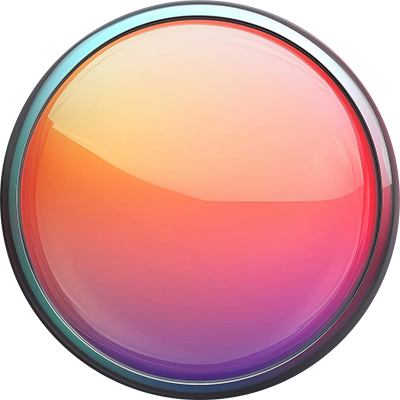
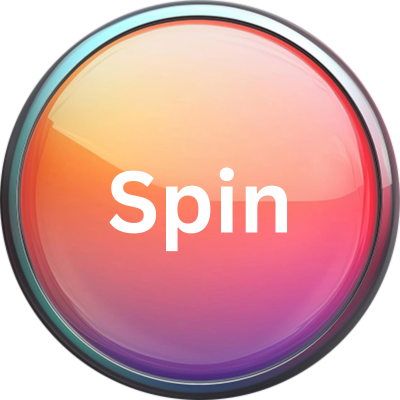
all components added

diff --git a/packages/frontend/index.html b/packages/frontend/index.html
@@ -12,64 +12,112 @@
   </head>
 
   <body>
-    <div class="container fixed-top">
-      <div class="row mt-3">
-        <div class="col-md-6 col-sm-12">
-          <svg width="250" height="44" viewBox="0 0 250 44" fill="none" xmlns="http://www.w3.org/2000/svg">
-          <path d="M245.379 11.968C242.29 9.23661 237.919 7.79643 233.548 7.10117C219.386 4.91606 205.049 9.78288 190.713 9.73324C179.523 9.68361 168.799 6.35624 157.725 5.80997C146.711 5.26369 136.337 9.68361 125.322 9.58424C116.114 9.48488 107.08 6.20726 97.8718 6.95218C90.2955 7.59778 83.7682 10.3292 76.0169 8.83932C72.287 8.0944 68.6154 7.00184 64.8271 6.65421C56.6679 5.90929 48.8584 8.69033 40.874 9.43524C32.8896 10.1802 24.7304 9.78288 16.9791 7.94541C13.3075 7.05151 9.22782 6.50523 5.78933 7.99508C5.20653 8.24338 4.62373 8.59101 4.0992 8.93864C0.835515 11.4217 -0.446649 21.4037 0.136153 24.9793C0.369274 26.3699 1.4766 31.7333 4.3906 30.0944C5.55621 29.4489 6.13901 28.2073 6.37213 27.0652C6.78009 25.476 7.24633 21.4037 9.51927 21.4037C12.4915 21.4533 14.4731 24.9297 17.6202 24.3337C20.3011 23.8372 23.1568 22.7942 25.9543 23.6384C29.6842 24.8303 30.675 28.5053 33.3558 30.6407C36.9692 33.4714 41.3985 20.5098 46.1775 24.6317C47.9259 26.1215 47.6345 28.3066 47.5762 30.2434C47.5179 31.932 47.751 35.1102 50.3736 35.4579C51.1895 35.5572 52.0637 35.2592 52.53 34.713C55.444 31.485 51.3061 26.9658 54.3367 23.8372C57.4255 20.6092 63.4867 22.7942 67.3332 23.4895C70.3055 24.0358 72.5784 23.7378 75.5507 23.7378C76.9494 23.7378 77.4739 24.4827 77.4156 25.6249C77.2991 28.3563 75.7255 31.9816 77.6487 34.5143C78.1733 35.2592 79.1057 35.7559 80.1548 35.5572C81.2038 35.4082 81.9032 34.6137 82.1946 33.8191C82.7775 31.8822 81.9032 29.6475 81.8449 27.6611C81.7866 25.476 81.4953 22.1982 85.2252 22.6452C87.265 22.8935 89.13 23.7378 91.1118 24.2344C95.0164 25.2276 99.4455 22.6452 103.584 21.5527C105.798 20.9567 108.071 22.2976 108.187 24.2841C108.305 26.3699 108.187 29.2502 107.546 33.2232C105.915 43.0562 114.482 42.5595 113.725 37.941C113.258 35.0606 113.375 29.7965 113.549 26.3202C113.725 26.6678 113.957 27.0154 114.132 27.3631C116.755 31.336 121.65 29.6475 123.982 26.4692C125.846 23.9861 126.837 20.8078 130.917 21.2051C135.871 21.652 140.475 23.5888 145.428 23.7874C150.033 23.9861 154.054 22.0493 158.542 21.503C162.738 20.9567 167.167 21.3541 171.188 22.6452C174.918 23.8372 178.532 26.0719 182.728 25.6746C183.835 25.5752 185.467 24.6813 186.516 25.4262C187.624 26.2705 186.807 28.406 186.575 29.3992C186.341 30.6407 186.341 31.9816 186.691 33.2232C186.865 33.8687 187.157 34.564 187.682 35.0606C188.206 35.5572 189.139 35.8055 189.838 35.5572C190.713 35.2592 191.062 34.3653 191.236 33.5212C191.761 30.5911 191.645 28.704 191.645 25.7242C191.645 25.0786 191.703 24.3834 192.285 23.9364C192.752 23.5888 193.51 23.5392 194.151 23.5888C197.415 23.6882 199.745 23.4895 202.718 24.6317C204.058 25.178 204.991 26.2705 204.991 27.5617C205.049 29.4985 204.875 32.0809 204.35 35.4579C202.776 45.0426 211.11 44.546 210.353 40.0764C209.945 37.5933 210.003 33.2728 210.12 29.9455C210.178 28.6046 211.518 27.5617 213.092 27.6611H213.15C217.055 27.9093 220.902 22.2976 224.806 22.9929C228.769 23.6882 232.907 28.3066 236.171 26.2705C237.336 25.5752 238.094 24.3834 239.376 23.8372C240.542 23.2908 241.299 23.8868 241.649 24.88C242.815 28.257 243.747 31.783 243.922 35.309C243.922 35.6565 244.039 36.0539 244.33 36.3518C245.554 37.5933 247.535 35.9545 248.176 34.4647C250.857 27.8101 251.091 17.0832 245.379 11.968Z" fill="white"/>
-          <path d="M52.6456 29.8952C52.1211 30.4414 51.3051 30.7394 50.4892 30.6401C47.8666 30.2924 47.6335 27.1638 47.6918 25.4256C47.75 23.4889 48.0415 21.3037 46.293 19.8139C41.514 15.6423 37.0848 28.6536 33.4714 25.823C30.7322 23.6875 29.7415 20.0125 26.0699 18.8206C23.3307 17.9268 20.475 18.9696 17.7358 19.5159C14.5887 20.1119 12.6071 16.6355 9.63487 16.5859C7.36191 16.5363 6.83739 20.6582 6.48771 22.2473C6.19631 23.3399 5.67179 24.6311 4.50619 25.2767C1.65046 26.8658 0.484857 21.6513 0.251736 20.2112C0.0768953 22.148 0.0768953 23.8862 0.251736 25.0283C0.484857 26.4189 1.59218 31.7823 4.50619 30.1435C5.67179 29.4979 6.25459 28.2563 6.48771 27.1142C6.89568 25.525 7.36191 21.4527 9.63487 21.4527C12.6071 21.5023 14.5887 24.9787 17.7358 24.3827C20.4167 23.8862 23.2724 22.8433 26.0699 23.6875C29.7998 24.8793 30.7905 28.5543 33.4714 30.6898C37.0848 33.5204 41.514 20.5588 46.293 24.6807C48.0415 26.1705 47.75 28.3557 47.6918 30.2924C47.6335 31.981 47.8666 35.1593 50.4892 35.507C51.3051 35.6063 52.1793 35.3083 52.6456 34.762C54.2774 32.9742 53.6946 30.7891 53.4032 28.7033C53.2284 29.1006 52.9952 29.4979 52.6456 29.8952Z" fill="#D9F1FF"/>
-          <path d="M108.245 19.4661C108.129 17.4796 105.855 16.1387 103.641 16.7347C99.5026 17.8272 95.0735 20.4096 91.1689 19.4163C89.1874 18.9198 87.3225 18.0755 85.2827 17.8272C81.5527 17.3306 81.8441 20.6579 81.9024 22.8431C81.9024 23.3893 81.9607 23.9852 82.0773 24.5315C82.4269 23.29 83.2428 22.3961 85.2827 22.6941C87.3225 22.9423 89.1874 23.7866 91.1689 24.2832C95.0735 25.2764 99.5026 22.6941 103.641 21.6015C105.681 21.0552 107.779 22.1478 108.187 23.8362C108.303 22.0981 108.303 20.6579 108.245 19.4661Z" fill="#D9F1FF"/>
-          <path d="M113.49 34.9619C112.383 36.9483 108.653 36.849 107.662 32.9258C107.662 33.0251 107.604 33.1244 107.604 33.2237C105.972 43.0567 114.539 42.5601 113.782 37.9416C113.606 37.147 113.548 36.1041 113.49 34.9619Z" fill="#D9F1FF"/>
-          <path d="M77.4731 20.7581C77.5314 19.6158 77.0069 18.8709 75.6082 18.8709C72.6942 18.8709 70.363 19.1689 67.3906 18.6226C63.5442 17.9274 57.4247 15.7423 54.3942 18.9703C52.7041 20.7581 53.2286 22.9432 53.52 25.1283C53.6948 24.6813 53.9862 24.2344 54.3942 23.8371C57.483 20.6091 63.5442 22.7942 67.3906 23.4895C70.363 24.0357 72.6359 23.7377 75.6082 23.7377C76.2492 23.7377 76.7155 23.8867 77.0069 24.135C77.1817 22.9928 77.4731 21.8009 77.4731 20.7581Z" fill="#D9F1FF"/>
-          <path d="M80.212 30.7395C79.163 30.8885 78.2306 30.3919 77.706 29.6966C77.4147 29.349 77.2398 28.9517 77.1232 28.5544C76.7736 30.6403 76.4821 32.875 77.706 34.5634C78.2306 35.3084 79.163 35.805 80.212 35.6064C81.2611 35.4574 81.9605 34.6628 82.2519 33.8683C82.6599 32.4777 82.3101 30.8885 82.077 29.3987C81.7274 30.0443 81.0863 30.5905 80.212 30.7395Z" fill="#D9F1FF"/>
-          <path d="M210.061 37.0472C208.954 38.984 205.398 38.8847 204.407 35.0608C204.407 35.2097 204.349 35.3091 204.349 35.4581C202.775 45.0427 211.11 44.5461 210.352 40.0765C210.177 39.2323 210.119 38.1894 210.061 37.0472Z" fill="#D9F1FF"/>
-          <path d="M248.059 29.5481C247.417 30.9883 245.436 32.6768 244.213 31.4352C243.921 31.1372 243.804 30.7897 243.804 30.3923C243.688 26.8664 242.697 23.3404 241.532 19.9634C241.182 18.9702 240.424 18.4239 239.258 18.9205C237.976 19.5165 237.219 20.6587 236.053 21.3539C232.789 23.3404 228.652 18.7219 224.688 18.0763C220.784 17.381 216.995 22.9928 213.033 22.7445H212.974C211.401 22.6451 210.06 23.688 210.002 25.0289C209.944 27.065 209.885 29.4488 209.944 31.5842C209.944 30.9883 210.002 30.442 210.002 29.8958C210.06 28.5549 211.401 27.5119 212.974 27.6113H213.033C216.937 27.8596 220.784 22.2479 224.688 22.9431C228.652 23.6384 232.789 28.2569 236.053 26.2208C237.219 25.5255 237.976 24.3337 239.258 23.7873C240.424 23.241 241.182 23.837 241.532 24.8302C242.697 28.2072 243.629 31.7332 243.804 35.2591C243.804 35.6068 243.921 36.0041 244.213 36.302C245.436 37.5436 247.417 35.9048 248.059 34.4149C249.515 30.9386 250.274 26.3698 249.865 22.0492C249.633 24.7806 248.991 27.4127 248.059 29.5481Z" fill="#D9F1FF"/>
-          <path d="M204.99 22.6954C204.932 21.4041 204.058 20.262 202.717 19.7653C199.746 18.6231 197.414 18.8218 194.15 18.7224C193.509 18.7224 192.81 18.7224 192.286 19.07C191.703 19.4674 191.645 20.2123 191.645 20.8579C191.645 23.788 191.761 25.7247 191.237 28.6548C191.12 29.4493 190.77 30.3432 189.837 30.6909C189.08 30.9392 188.206 30.6909 187.681 30.1942C187.215 29.7473 186.924 29.201 186.749 28.6051C186.69 28.903 186.574 29.201 186.574 29.3997C186.341 30.6412 186.341 31.982 186.69 33.2236C186.866 33.8692 187.157 34.5645 187.681 35.0611C188.206 35.5577 189.138 35.806 189.837 35.5577C190.712 35.2598 191.062 34.3659 191.237 33.5216C191.761 30.5916 191.645 28.7044 191.645 25.7247C191.645 25.0791 191.703 24.3839 192.286 23.937C192.752 23.5893 193.509 23.5396 194.15 23.5893C197.414 23.6886 199.746 23.49 202.717 24.6321C203.767 25.0295 204.525 25.824 204.874 26.7676C204.99 25.1784 204.99 23.8376 204.99 22.6954Z" fill="#D9F1FF"/>
-          <path d="M186.574 24.5327C186.748 23.5395 187.565 21.404 186.516 20.5597C185.467 19.7652 183.835 20.6591 182.727 20.8081C178.589 21.2054 174.918 19.0203 171.188 17.7787C167.225 16.4876 162.796 16.1399 158.541 16.6365C154.054 17.1828 150.032 19.1196 145.428 18.9209C140.475 18.7223 135.812 16.7855 130.917 16.3386C126.837 15.9413 125.846 19.1196 123.981 21.6027C121.65 24.781 116.755 26.4695 114.132 22.4966C113.898 22.1489 113.724 21.8013 113.549 21.4537C113.432 23.7381 113.374 26.7178 113.432 29.3498C113.432 28.2573 113.491 27.2144 113.549 26.3205C113.724 26.6681 113.957 27.0157 114.132 27.3634C116.755 31.3363 121.65 29.6478 123.981 26.4695C125.846 23.9864 126.837 20.8081 130.917 21.2054C135.87 21.6523 140.475 23.5891 145.428 23.7877C150.032 23.9864 154.054 22.0497 158.541 21.5034C162.737 20.9571 167.167 21.3544 171.188 22.6456C174.918 23.8375 178.531 26.0722 182.727 25.6749C183.835 25.5756 185.467 24.6817 186.457 25.4266C186.457 25.1287 186.516 24.8307 186.574 24.5327Z" fill="#D9F1FF"/>
-          <path d="M82.2527 32.1316C82.0196 32.9758 81.262 33.7208 80.213 33.8698C79.1639 34.0188 78.2314 33.5221 77.7069 32.8268C77.1823 32.1316 76.9492 31.2874 76.8327 30.4431C76.7161 31.9329 76.8327 33.3731 77.7069 34.5154C78.2314 35.2603 79.1639 35.7569 80.213 35.5583C81.262 35.4093 81.9613 34.6147 82.2527 33.8201C82.4859 33.0255 82.4859 32.2309 82.4276 31.3867C82.3692 31.635 82.311 31.8833 82.2527 32.1316Z" fill="#B4DCFF"/>
-          <path d="M108.246 25.0299C108.246 24.1359 108.246 23.2917 108.188 22.5964C108.071 20.6099 105.798 19.2691 103.583 19.865C99.4457 20.9576 95.0157 23.54 91.1111 22.5468C89.1297 22.0501 87.2648 21.2059 85.225 20.9576C81.6116 20.4609 81.7864 23.6393 81.8447 25.8244C81.9612 24.0366 82.4858 22.3481 85.225 22.6958C87.2648 22.944 89.1297 23.7883 91.1111 24.2849C95.0157 25.2781 99.4457 22.6958 103.583 21.6032C105.798 21.0072 108.071 22.3481 108.188 24.3346C108.246 24.5332 108.246 24.7816 108.246 25.0299Z" fill="#B4DCFF"/>
-          <path d="M77.4149 24.8308C77.4731 24.5329 77.4731 24.1852 77.4731 23.8872C77.5314 22.7451 77.0069 22.0001 75.6082 22.0001C72.6942 22.0001 70.3629 22.2981 67.3907 21.7518C63.5442 21.0565 57.4248 18.8714 54.3942 22.0994C53.2286 23.2913 53.112 24.7315 53.2868 26.2213C53.4035 25.3771 53.6948 24.5825 54.3942 23.8376C57.483 20.6096 63.5442 22.7947 67.3907 23.49C70.3629 24.0362 72.6359 23.7382 75.6082 23.7382C76.7155 23.7382 77.24 24.1355 77.4149 24.8308Z" fill="#B4DCFF"/>
-          <path d="M52.6462 33.0251C52.1217 33.5714 51.3057 33.8693 50.4898 33.77C48.3917 33.5217 47.8089 31.3862 47.6924 29.6978C47.6924 29.8964 47.6924 30.095 47.6924 30.2937C47.6341 31.9822 47.8672 35.1605 50.4898 35.5081C51.3057 35.6075 52.18 35.3095 52.6462 34.7632C53.7536 33.5714 53.8118 32.1808 53.6953 30.7407C53.5787 31.5352 53.2873 32.3298 52.6462 33.0251Z" fill="#B4DCFF"/>
-          <path d="M46.2349 22.9443C41.456 18.7726 37.0266 31.784 33.4133 28.9533C30.6742 26.8178 29.6834 23.1429 26.0117 21.951C23.2725 21.0571 20.4168 22.1 17.6776 22.6463C14.5306 23.2422 12.549 19.7659 9.57673 19.7163C7.3038 19.6665 6.77928 23.7884 6.4296 25.3776C6.1382 26.4702 5.61368 27.7614 4.44808 28.407C1.53407 30.0458 0.426743 24.6824 0.193623 23.2919C0.135343 22.9443 0.0770628 22.4973 0.0770628 22.0504C0.0187826 23.2422 0.0770628 24.2851 0.193623 25.03C0.426743 26.4205 1.53407 31.784 4.44808 30.1452C5.61368 29.4995 6.19648 28.258 6.4296 27.1158C6.83756 25.5266 7.3038 21.4544 9.57673 21.4544C12.549 21.5041 14.5306 24.9804 17.6776 24.3844C20.3585 23.8878 23.2143 22.8449 26.0117 23.6892C29.7416 24.881 30.7325 28.556 33.4133 30.6914C37.0266 33.5222 41.456 20.5604 46.2349 24.6824C47.284 25.5763 47.5754 26.7185 47.6919 27.9104C47.7502 26.1225 47.7502 24.2851 46.2349 22.9443Z" fill="#B4DCFF"/>
-          <path d="M186.924 26.1223C187.098 25.2284 187.156 24.2351 186.457 23.7385C185.408 22.9439 183.776 23.8378 182.669 23.9868C178.531 24.3841 174.859 22.199 171.13 20.9575C167.166 19.6663 162.737 19.3186 158.483 19.8153C153.996 20.3615 149.974 22.2983 145.37 22.0996C140.416 21.901 135.754 19.9642 130.858 19.5173C126.778 19.12 125.787 22.2983 123.923 24.7814C121.592 27.9597 116.696 29.6482 114.074 25.6753C113.84 25.3276 113.666 24.98 113.491 24.6324C113.432 26.5195 113.316 28.8536 113.374 31.1381C113.374 29.4495 113.432 27.7611 113.491 26.3705C113.666 26.7182 113.898 27.0658 114.074 27.4135C116.696 31.3864 121.592 29.6979 123.923 26.5195C125.787 24.0365 126.778 20.8581 130.858 21.2555C135.812 21.7024 140.416 23.6392 145.37 23.8378C149.974 24.0365 153.996 22.0996 158.483 21.5534C162.679 21.0071 167.108 21.4044 171.13 22.6956C174.859 23.8875 178.473 26.1223 182.669 25.7249C183.776 25.6256 185.408 24.7317 186.457 25.4766C186.69 25.6256 186.866 25.8243 186.924 26.1223Z" fill="#B4DCFF"/>
-          <path d="M210.294 39.6301C209.536 42.3118 204.641 42.3118 204.175 36.8491C203.592 44.8942 211.052 44.2487 210.352 40.0274C210.294 39.9281 210.294 39.7791 210.294 39.6301Z" fill="#B4DCFF"/>
-          <path d="M248.059 32.6773C247.418 34.1175 245.436 35.8059 244.213 34.5645C243.921 34.2665 243.804 33.9188 243.804 33.5215C243.688 29.9955 242.697 26.4695 241.532 23.0926C241.182 22.0994 240.424 21.5531 239.259 22.0497C237.976 22.6456 237.219 23.7878 236.054 24.4831C232.79 26.4695 228.652 21.8511 224.689 21.2055C220.784 20.5102 216.996 26.1219 213.033 25.8736H212.974C211.401 25.7744 210.061 26.8172 210.003 28.1581C209.944 29.7473 209.885 31.5351 209.944 33.2732C209.944 32.0814 210.003 30.9391 210.003 29.8963C210.061 28.5554 211.401 27.5125 212.974 27.6118H213.033C216.937 27.8601 220.784 22.2484 224.689 22.9436C228.652 23.6389 232.79 28.2574 236.054 26.2213C237.219 25.526 237.976 24.3341 239.259 23.7878C240.424 23.2415 241.182 23.8375 241.532 24.8307C242.697 28.2077 243.63 31.7337 243.804 35.2596C243.804 35.6073 243.921 36.0046 244.213 36.3025C245.436 37.5441 247.418 35.9053 248.059 34.4155C249.342 31.3861 250.099 27.4628 249.983 23.5892C249.866 26.8669 249.166 30.0949 248.059 32.6773Z" fill="#B4DCFF"/>
-          <path d="M204.99 25.8744C204.932 24.5831 204.058 23.4409 202.717 22.9443C199.745 21.8021 197.414 22.0007 194.15 21.9014C193.509 21.9014 192.81 21.9014 192.285 22.249C191.703 22.6464 191.645 23.3913 191.645 24.0368C191.645 24.5335 191.645 24.9805 191.645 25.3777C191.703 24.8315 191.819 24.3348 192.285 23.9872C192.752 23.6395 193.509 23.5899 194.15 23.6395C197.414 23.7389 199.745 23.5403 202.717 24.6825C204.058 25.1791 204.932 26.3213 204.99 27.5628C204.99 26.9172 204.99 26.3709 204.99 25.8744Z" fill="#B4DCFF"/>
-          <path d="M191.236 31.7842C191.119 32.5788 190.769 33.4727 189.837 33.8203C189.079 34.0687 188.206 33.8203 187.681 33.3237C187.157 32.8272 186.865 32.1815 186.69 31.4862C186.574 31.0393 186.516 30.5923 186.457 30.1454C186.34 31.1883 186.398 32.1815 186.69 33.2244C186.865 33.8701 187.157 34.5652 187.681 35.0619C188.206 35.5585 189.137 35.8068 189.837 35.5585C190.711 35.2605 191.061 34.3666 191.236 33.5224C191.644 31.1883 191.644 29.4998 191.644 27.4141C191.586 28.7549 191.527 30.1454 191.236 31.7842Z" fill="#B4DCFF"/>
-          <path d="M113.724 37.5932C112.967 40.3743 107.896 40.3743 107.429 34.7625C106.847 43.0063 114.481 42.3607 113.782 37.9904C113.724 37.8415 113.724 37.6925 113.724 37.5932Z" fill="#B4DCFF"/>
-          <path d="M234.189 10.0819C234.131 11.0255 231.392 11.6711 228.07 11.5718C224.748 11.4724 222.067 10.6282 222.067 9.73431C222.126 8.79072 224.865 8.14512 228.186 8.24444C231.567 8.34376 234.189 9.18804 234.189 10.0819Z" fill="#D9F1FF"/>
-          <path d="M163.321 8.93935C163.263 9.88293 160.523 10.5285 157.201 10.4292C153.879 10.3298 151.198 9.48566 151.198 8.59172C151.256 7.64815 153.996 7.00255 157.317 7.10186C160.698 7.20119 163.379 8.04544 163.321 8.93935Z" fill="#D9F1FF"/>
-          <path d="M67.4489 9.48517C67.3906 10.2301 65.2342 10.7764 62.5533 10.6771C59.8725 10.5777 57.7744 9.93208 57.7744 9.18717C57.8327 8.44227 59.989 7.896 62.6699 7.99531C65.3508 8.09464 67.4489 8.74024 67.4489 9.48517Z" fill="#D9F1FF"/>
-          <path d="M56.6101 9.28619C56.7267 9.83246 55.2697 10.5277 53.4047 10.8256C51.4815 11.1733 49.8497 11.0243 49.7331 10.478C49.6165 9.93173 51.0736 9.23646 52.9385 8.93852C54.8035 8.64056 56.4353 8.78954 56.6101 9.28619Z" fill="#D9F1FF"/>
-          <path d="M12.0833 8.74045C12.1999 9.28671 10.7428 9.98199 8.8779 10.28C6.95465 10.6276 5.32281 10.4786 5.20624 9.93235C5.08969 9.38608 6.54669 8.69079 8.41165 8.39281C10.3349 8.04519 11.9667 8.19417 12.0833 8.74045Z" fill="#D9F1FF"/>
-          <path d="M149.566 8.89013C149.683 9.58536 147.818 10.38 145.37 10.7276C142.923 11.0753 140.825 10.7773 140.707 10.1316C140.591 9.43636 142.456 8.64182 144.904 8.29419C147.352 7.94655 149.45 8.19486 149.566 8.89013Z" fill="#D9F1FF"/>
-          <path fill-rule="evenodd" clip-rule="evenodd" d="M27.178 18.5737C27.178 19.2689 26.4786 19.8649 25.6627 19.8649C24.8468 19.8649 24.1475 19.2689 24.1475 18.5737C24.1475 17.8785 24.8468 17.2825 25.6627 17.2825C26.4786 17.2825 27.178 17.8287 27.178 18.5737Z" fill="white"/>
-          <path fill-rule="evenodd" clip-rule="evenodd" d="M167.167 1.29144C167.167 1.98671 166.467 2.58264 165.652 2.58264C164.835 2.58264 164.136 1.98671 164.136 1.29144C164.136 0.596182 164.835 0.000244141 165.652 0.000244141C166.525 0.000244141 167.167 0.596182 167.167 1.29144Z" fill="white"/>
-          <path fill-rule="evenodd" clip-rule="evenodd" d="M246.312 24.5824C246.312 25.2777 245.612 25.8737 244.796 25.8737C243.98 25.8737 243.281 25.2777 243.281 24.5824C243.281 23.8872 243.98 23.2913 244.796 23.2913C245.612 23.2913 246.312 23.8872 246.312 24.5824Z" fill="white"/>
-          <path fill-rule="evenodd" clip-rule="evenodd" d="M203.009 26.5199C203.009 27.2152 202.309 27.8111 201.493 27.8111C200.677 27.8111 199.978 27.2152 199.978 26.5199C199.978 25.8247 200.677 25.2288 201.493 25.2288C202.309 25.2784 203.009 25.8247 203.009 26.5199Z" fill="white"/>
-          <path fill-rule="evenodd" clip-rule="evenodd" d="M135.462 21.9998C135.462 22.695 134.763 23.291 133.947 23.291C133.131 23.291 132.432 22.695 132.432 21.9998C132.432 21.3045 133.131 20.7085 133.947 20.7085C134.821 20.7085 135.462 21.3045 135.462 21.9998Z" fill="white"/>
-          <path fill-rule="evenodd" clip-rule="evenodd" d="M168.915 38.8361C168.915 39.1837 168.565 39.4816 168.158 39.4816C167.75 39.4816 167.4 39.1837 167.4 38.8361C167.4 38.4884 167.75 38.1904 168.158 38.1904C168.565 38.1904 168.915 38.4884 168.915 38.8361Z" fill="white"/>
-          <path fill-rule="evenodd" clip-rule="evenodd" d="M96.8807 27.1656C96.8807 27.5132 96.5307 27.8112 96.1225 27.8112C95.7152 27.8112 95.3652 27.5132 95.3652 27.1656C95.3652 26.8179 95.7152 26.52 96.1225 26.52C96.5889 26.52 96.8807 26.8179 96.8807 27.1656Z" fill="white"/>
-          <path fill-rule="evenodd" clip-rule="evenodd" d="M117.804 8.64072C117.804 8.98835 117.454 9.28633 117.046 9.28633C116.638 9.28633 116.288 8.98835 116.288 8.64072C116.288 8.29309 116.638 7.99512 117.046 7.99512C117.454 7.99512 117.804 8.29309 117.804 8.64072Z" fill="white"/>
-          <path fill-rule="evenodd" clip-rule="evenodd" d="M83.4762 12.9623C83.4762 13.3099 83.1266 13.6078 82.7186 13.6078C82.3107 13.6078 81.9609 13.3099 81.9609 12.9623C81.9609 12.6147 82.3107 12.3167 82.7186 12.3167C83.1266 12.3167 83.4762 12.6147 83.4762 12.9623Z" fill="white"/>
-          <path fill-rule="evenodd" clip-rule="evenodd" d="M57.8331 9.28691C57.8331 9.63455 57.4835 9.93255 57.0755 9.93255C56.6676 9.93255 56.3179 9.63455 56.3179 9.28691C56.3179 8.93932 56.6676 8.64136 57.0755 8.64136C57.4835 8.64136 57.8331 8.93932 57.8331 9.28691Z" fill="white"/>
-          <path fill-rule="evenodd" clip-rule="evenodd" d="M65.1769 27.8107C65.1769 28.1583 64.8273 28.4562 64.4193 28.4562C64.0113 28.4562 63.6616 28.1583 63.6616 27.8107C63.6616 27.463 64.0113 27.165 64.4193 27.165C64.8273 27.165 65.1769 27.463 65.1769 27.8107Z" fill="white"/>
-          <path fill-rule="evenodd" clip-rule="evenodd" d="M176.55 16.6365C176.55 16.9841 176.201 17.2821 175.793 17.2821C175.385 17.2821 175.035 16.9841 175.035 16.6365C175.035 16.2889 175.385 15.991 175.793 15.991C176.201 15.991 176.55 16.2889 176.55 16.6365Z" fill="white"/>
-          <path fill-rule="evenodd" clip-rule="evenodd" d="M220.843 9.28691C220.843 9.63455 220.493 9.93255 220.084 9.93255C219.677 9.93255 219.327 9.63455 219.327 9.28691C219.327 8.93932 219.677 8.64136 220.084 8.64136C220.493 8.64136 220.843 8.93932 220.843 9.28691Z" fill="white"/>
-          </svg></div>
-        <div class="col-md-6 col-sm-12">a</div>
+    <div class="container mt-2">
+      <div class="row mt-2">
+        <div class="col-2"></div>
+        <div class="col-md-4 col-sm-12 d-flex justify-content-center mb-3">
+          <button class=" btn btn-primary mr-5 button-style">
+            <svg width="24" height="24" viewBox="0 0 18 18" fill="none" xmlns="http://www.w3.org/2000/svg" class="mb-1">
+              <g clip-path="url(#clip0_275_1040)">
+              <path d="M9 0C6.61359 0 4.32281 0.948797 2.63672 2.63602C0.948898 4.32391 0.000482975 6.61301 0 9C0 11.386 0.949219 13.6768 2.63672 15.364C4.32281 17.0512 6.61359 18 9 18C11.3864 18 13.6772 17.0512 15.3633 15.364C17.0508 13.6768 18 11.386 18 9C18 6.61402 17.0508 4.32323 15.3633 2.63602C13.6772 0.948797 11.3864 0 9 0Z" fill="url(#paint0_linear_275_1040)"/>
+              <path d="M4.07413 8.90503C6.69819 7.76203 8.44756 7.00847 9.32225 6.64434C11.8226 5.6047 12.3415 5.42414 12.6804 5.41802C12.7549 5.41683 12.9208 5.43525 13.0291 5.52279C13.1191 5.59662 13.1444 5.69646 13.1571 5.76656C13.1683 5.83659 13.1838 5.9962 13.1712 6.1208C13.0362 7.54392 12.4498 10.9974 12.1516 12.5914C12.0265 13.2658 11.7776 13.4919 11.5371 13.514C11.014 13.5621 10.6174 13.1686 10.1112 12.8369C9.31944 12.3176 8.87225 11.9944 8.10303 11.4877C7.21428 10.9022 7.79085 10.5803 8.2971 10.0544C8.42928 9.91669 10.7327 7.82208 10.7763 7.63209C10.7819 7.60833 10.7876 7.51973 10.7341 7.47305C10.6821 7.42622 10.6048 7.44225 10.5485 7.45491C10.4683 7.4729 9.20413 8.30934 6.75163 9.96408C6.39303 10.2107 6.06819 10.331 5.77569 10.3246C5.45506 10.3177 4.83631 10.143 4.37647 9.99361C3.81397 9.81037 3.36538 9.71348 3.40475 9.40228C3.42444 9.24028 3.64803 9.07448 4.07413 8.90503Z" fill="white"/>
+              </g>
+              <defs>
+              <linearGradient id="paint0_linear_275_1040" x1="900" y1="0" x2="900" y2="1800" gradientUnits="userSpaceOnUse">
+              <stop stop-color="#2AABEE"/>
+              <stop offset="1" stop-color="#229ED9"/>
+              </linearGradient>
+              <clipPath id="clip0_275_1040">
+              <rect width="24" height="24" fill="white"/>
+              </clipPath>
+              </defs>
+            </svg>
+            &nbsp;
+            <span class="textConnecWallet">Login with Telegram</span>
+          </button>
+        </div>
+        <div class="col-md-4 col-sm-12 d-flex justify-content-center">
+          <button class=" btn btn-primary button-style">
+            <img src="./images/cup_img.png" style="width: 30px; height: 30px;">
+            &nbsp;
+            <span class="textConnecWallet">Leaderboard</span>
+          </button>
+        </div>
+        <div class="col-2"></div>
       </div>
+      <br/>
+      <div class="row justify-content-center">
+        <div class="col-12 text-center">
+          <img src="./images/slot_machine.png" class="machine-slot-style">
+        </div>
+      </div>
+      <div class="row mt-4 justify-content-center">
+        <div class="col-12 text-center">
+          <img src="./images/spin_button_img.png" class="spin-button-style">
+        </div>
+      </div>
+      <div class="row mt-3 justify-content-center gap-3">
+        <div class="col-2"></div>
+        <div class="col-md-2 col-sm-12 mb-2  border-1 rounded stat-window-1 text-center">
+          <div class="row  my-1 ">
+            <div class="col-1"></div>
+            <div class="col-3 d-flex align-items-center">
+              <img src="./images/chip_img.png" class="square-img" />
+            </div>
+            <div class="col-7 d-flex align-items-center">
+              <div class="container-fluid">
+                <div class="row">
+                  <div class="col-12"><span class="textConnecWallet text-18 text-purple">Credits</span></div>
+                  <div class="col-12"><span class="weight-700 text-20 text-purple">0</span></div>
+                </div>
+              </div>
+              <div class="col-1"></div>
+            </div>
+          </div>
+        </div>
+        <div class="col-md-2 col-sm-12 mb-2 border-1 rounded stat-window-2 text-center">
+          <div class="row  my-1 ">
+            <div class="col-1"></div>
+            <div class="col-3 d-flex align-items-center">
+              <img src="./images/cup_img.png" class="square-img" />
+            </div>
+            <div class="col-7 d-flex align-items-center">
+              <div class="container-fluid">
+                <div class="row">
+                  <div class="col-12"><span class="textConnecWallet text-18 text-white">Score</span></div>
+                  <div class="col-12"><span class="weight-700 text-20 text-white">0</span></div>
+                </div>
+              </div>
+              <div class="col-1"></div>
+            </div>
+          </div>
+        </div>
+        <div class="col-md-2 col-sm-12 mb-2 border-1 rounded stat-window-3 text-center">
+          <div class="row  my-1 ">
+            <div class="col-1"></div>
+            <div class="col-3 d-flex align-items-center">
+              <img src="./images/star_image.png" class="square-img-star" />
+            </div>
+            <div class="col-7 d-flex align-items-center">
+              <div class="container-fluid">
+                <div class="row">
+                  <div class="col-12"><span class="textConnecWallet text-18 text-white">Points</span></div>
+                  <div class="col-12"><span class="weight-700 text-20 text-white">0</span></div>
+                </div>
+              </div>
+              <div class="col-1"></div>
+            </div>
+          </div>
+        </div>
+        <div class="col-2"></div>
+      </div>
+      <div class="row mt-1">
+        <div class="col-12 text-center">
+            <span  class="textConnecWallet text-white text-20">Please login to run the slot machine !</span>
+        </div>
+      </div>
+      
     </div>
-
-    <!--<div id="game">
-      <h1>Telegram Slot Machine</h1>
-      <div id="slots">🍎 🍊 🍇</div>
-      <button id="spinButton">Spin</button>
-      <p id="result"></p>
-      <div id="debugPanel" style="margin-top: 20px; text-align: left">
-        <h3>Debug Log:</h3>
-        <pre id="debugLog"></pre>
-      </div>
-    </div>-->
+    <br/>
   </body>
 </html>

diff --git a/packages/frontend/src/style.css b/packages/frontend/src/style.css
@@ -8,7 +8,6 @@ body {
   background-color: var(--tg-theme-bg-color, #000000);
   color: var(--tg-theme-text-color, #000000);
   position: relative;
-  overflow: hidden; /* Prevent scrollbars if the pseudo-element goes outside */
 }
 
 body::before {
@@ -20,9 +19,9 @@ body::before {
   height: 100%;
   background: linear-gradient(to bottom, rgba(0, 0, 0, 0.2), rgba(0, 0, 0, 0.7)), 
               url('../images/background.jpg');
-  background-size: cover;
+  background-size:auto;
   background-position: center;
-  z-index: -1; /* Arkada kalmasını sağlar */
+  z-index: -1; 
 }
 
 
@@ -60,4 +59,130 @@ button {
   white-space: -o-pre-wrap; /* Opera 7 */
   word-wrap: break-word; /* Internet Explorer 5.5+ */
   word-break: break-all;
+}
+
+.buttonDesign {
+  background-color: #836EF9   !important;
+  border-color: #836EF9 !important;
+  height: 45px !important;
+  width: 250px !important;
+}
+
+#textConnecWallet {
+    /* Connect Wallet */
+    
+    width: 146px;
+    height: 18px;
+    
+    font-family: 'Sora';
+    font-style: normal;
+    font-weight: 600;
+    font-size: 14px;
+    line-height: 18px;
+    /* identical to box height */
+    display: flex;
+    align-items: center;
+    text-align: center;
+    
+    color: #FFFFFF;
+    
+    
+    /* Inside auto layout */
+    flex: none;
+    order: 1;
+    flex-grow: 0;
+
+}
+
+.machine-slot-style {
+  width: 600px !important;
+  opacity: 1 !important;
+  margin-left: 3rem; 
+}
+
+@media (max-width: 768px) { /* Tablet ve daha küçük ekranlar */
+  .machine-slot-style {
+    width: 350px !important; /* Küçük ekranlarda genişlik */
+    margin-left: 1rem; /* Sol boşluğu küçült */
+  }
+}
+
+.spin-button-style {
+  width: 100px;
+  opacity: 0.8;
+}
+
+.overlay-text {
+  position: absolute;
+  top: 0%; 
+  left: 0%;
+  transform: translate(0%, 0%); 
+  pointer-events: none; 
+}
+
+.button-style {
+  /* Buttons */
+  /* Auto layout */
+  display: flex;
+  flex-direction: row;
+  justify-content: center;
+  align-items: center;
+  padding: 0px 24px;
+  gap: 16px;
+  border-color: #836EF9 !important;
+  width: 228px;
+  height: 40px;
+  background: linear-gradient(90deg, rgba(179, 151, 254, 0.6) 0%, #836EF9 100%);
+  backdrop-filter: blur(2px);
+  /* Note: backdrop-filter has minimal browser support */
+  border-radius: 4px;
+  /* Inside auto layout */
+  flex: none;
+  order: 0;
+  flex-grow: 0;
+
+}
+
+.square-img {
+  width: 46px;
+  height: 46px;
+}
+
+.square-img-star {
+  width: 35px;
+  height: 35px;
+}
+
+.stat-window-1 {
+  background-color: #D0ADE2;
+  border-color: #D0ADE2 !important;
+}
+.stat-window-2 {
+  background-color: #582F6D;
+  border-color: #582F6D !important;
+}
+
+.stat-window-3 {
+  background-color: #3E1D68;
+  border-color: #3E1D68;
+}
+
+.text-purple {
+  color: #3E1D68;
+}
+
+.text-white {
+  color:white;
+}
+
+.text-18 {
+  font-size: 18px;
+}
+
+.text-20 {
+  font-size: 20px;
+}
+
+.weight-700 {
+  font-weight: 700;
 }
